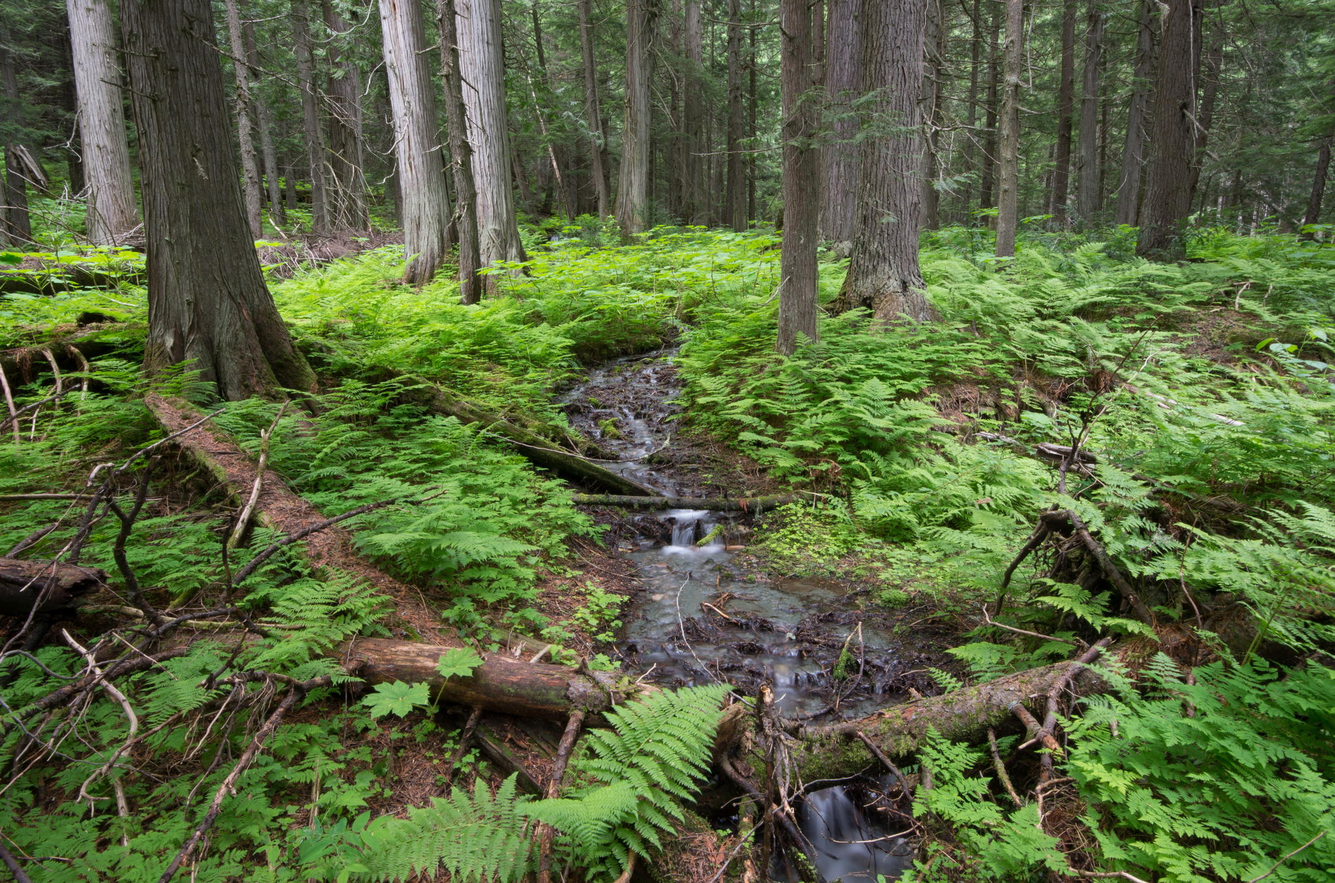
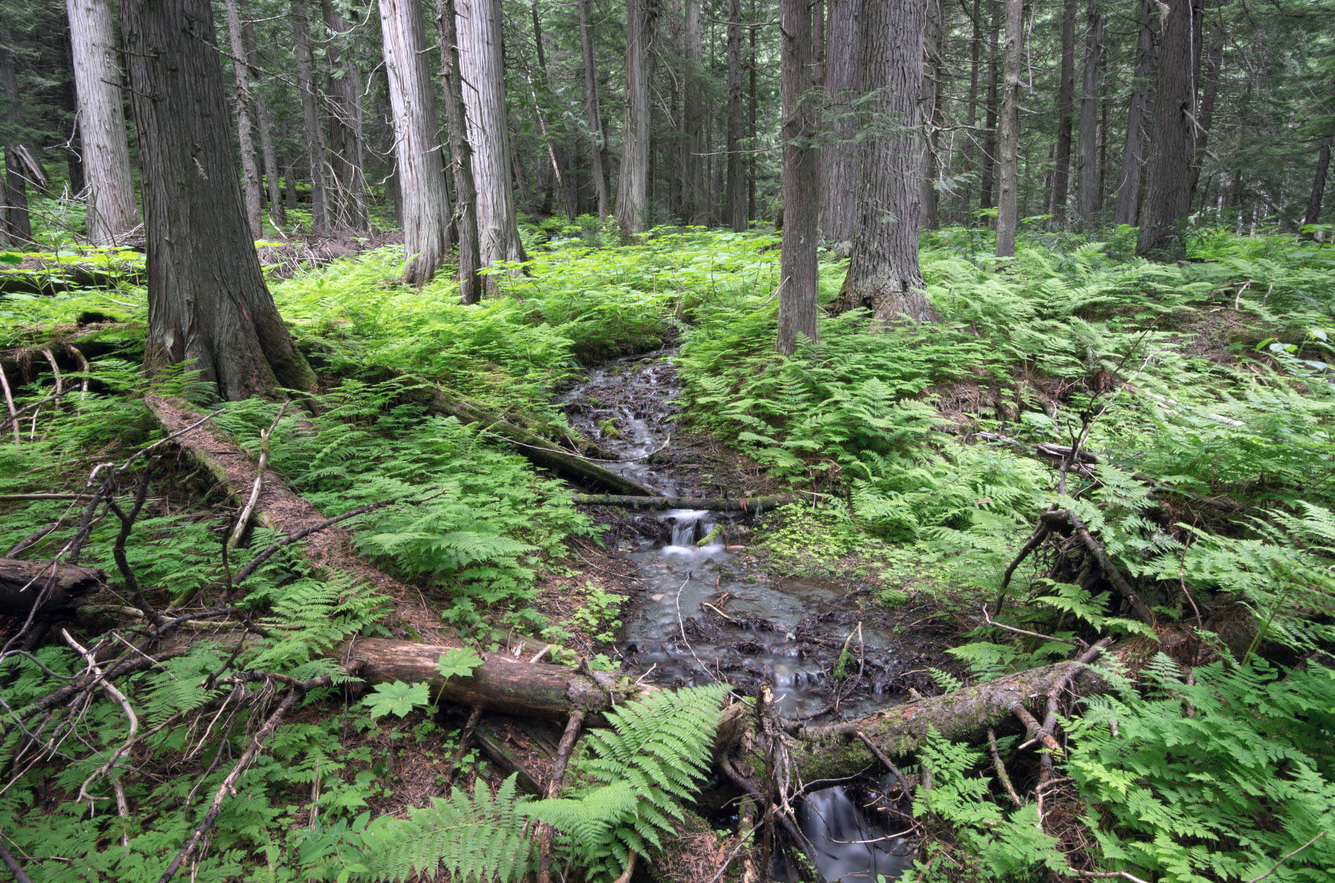
fix gulp css race condition and update image vibrance

diff --git a/index.html b/index.html
@@ -39,7 +39,22 @@
     </nav>
 </header>
 <nav>
-    <div class="overlay"></div>
+    <div class="overlay">
+        <div class="nav-wrapper">
+            <div class="logo">
+                <svg version="1.1" id="jelly" xmlns="http://www.w3.org/2000/svg" xmlns:xlink="http://www.w3.org/1999/xlink" x="0px" y="0px"
+                    width="8px" height="8px" viewBox="0 0 8 8" fill="#FFFFFF" enable-background="new 0 0 8 8" xml:space="preserve">
+                                    <path d="M4.018,0.187c-1.917,0-3.471,1.52-3.471,3.396c0,1.875,3.471,1.679,3.471,1.679s3.472,0.196,3.472-1.679
+                                    C7.488,1.708,5.935,0.187,4.018,0.187z"/>
+                                    <g class="tentacles">
+                                        <rect x="3.723" y="4.903" width="0.574" height="2.683"/>
+                                        <rect x="5.362" y="4.76" width="0.575" height="2.265"/>
+                                        <rect x="2.088" y="4.76" width="0.574" height="2.265"/>
+                                    </g>
+                    </svg>
+            </div>
+        </div>
+    </div>
 </nav>
 <article>
     <section class="introduction">I'm Kevin Z. Yao and I'm a creative</section>

diff --git a/build/styles/bundle.css b/build/styles/bundle.css
@@ -858,7 +858,6 @@ body {
 [class^="icon-"],
 [class*=" icon-"] {
   font-family: 'icomoon';
-  speak: none;
   font-style: normal;
   font-weight: normal;
   font-variant: normal;
@@ -934,16 +933,26 @@ li {
 nav {
   width: 25%;
   background-image: url("../../../../../images/1.jpg");
+  background-position-x: 100%;
   background-size: cover;
   height: 100%;
   position: fixed;
 }
 
 nav .overlay {
+  position: absolute;
   width: 100%;
   height: 100%;
-  opacity: .4;
-  background-color: #000000;
+  background-color: rgba(0, 0, 0, 0.4);
+  color: #ffffff;
+}
+
+nav .nav-wrapper {
+  margin: 4em auto;
+}
+
+nav .logo {
+  text-align: center;
 }
 
 article {

diff --git a/less/global.less b/less/global.less
@@ -18,7 +18,6 @@ html, body {
 
 [class^="icon-"], [class*=" icon-"] {
   font-family: 'icomoon';
-  speak: none;
   font-style: normal;
   font-weight: normal;
   font-variant: normal;
@@ -84,15 +83,25 @@ ul, li {
 nav {
   width: 25%;
   background-image: url("/images/1.jpg");
+  background-position-x: 100%;
   background-size: cover;
   height: 100%;
   position: fixed;
 
   .overlay {
+    position: absolute;
     width: 100%;
     height: 100%;
-    opacity: .4;
-    background-color: #000000;
+    background-color: rgba(0,0,0,.4);
+    color: #ffffff;
+  }
+
+  .nav-wrapper {
+    margin: 4em auto;
+  }
+
+  .logo {
+    text-align: center;
   }
 }
 

diff --git a/css/global.css b/css/global.css
@@ -13,7 +13,6 @@ body {
 [class^="icon-"],
 [class*=" icon-"] {
   font-family: 'icomoon';
-  speak: none;
   font-style: normal;
   font-weight: normal;
   font-variant: normal;
@@ -73,15 +72,23 @@ li {
 nav {
   width: 25%;
   background-image: url("/images/1.jpg");
+  background-position-x: 100%;
   background-size: cover;
   height: 100%;
   position: fixed;
 }
 nav .overlay {
+  position: absolute;
   width: 100%;
   height: 100%;
-  opacity: .4;
-  background-color: #000000;
+  background-color: rgba(0, 0, 0, 0.4);
+  color: #ffffff;
+}
+nav .nav-wrapper {
+  margin: 4em auto;
+}
+nav .logo {
+  text-align: center;
 }
 article {
   width: 70%;

diff --git a/gulpfile.js b/gulpfile.js
@@ -41,7 +41,7 @@ gulp.task('less', function() {
     .pipe(gulp.dest('css'));
 });
 
-gulp.task('styles', function () {
+gulp.task('styles', ['less'], function () {
   gulp.src([
     'css/normalize.css',
     'css/main.css',
@@ -60,8 +60,8 @@ gulp.task('styles', function () {
 });
 
 gulp.task('watch', function () {
-  gulp.watch('js/**/*.js', {debounceDelay: 2000}, ['scripts']);
-  gulp.watch('less/**/*.less', {debounceDelay: 2000}, sequence('less', 'styles'));
+  gulp.watch('js/**/*.js', ['scripts']);
+  gulp.watch('less/**/*.less', ['styles']);
 });
 
 gulp.task('default', sequence('clean', ['styles', 'scripts'], 'watch'));
